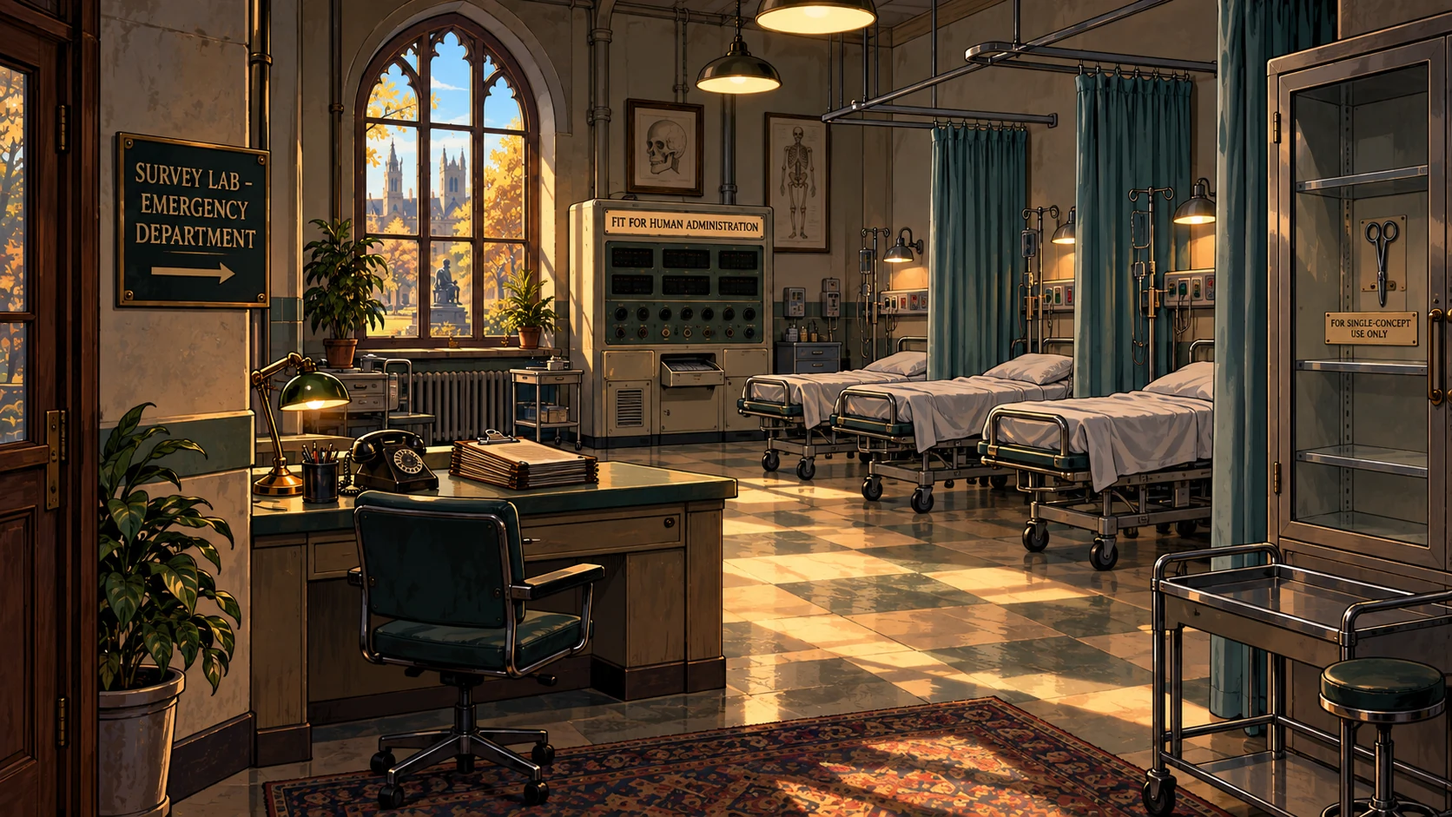
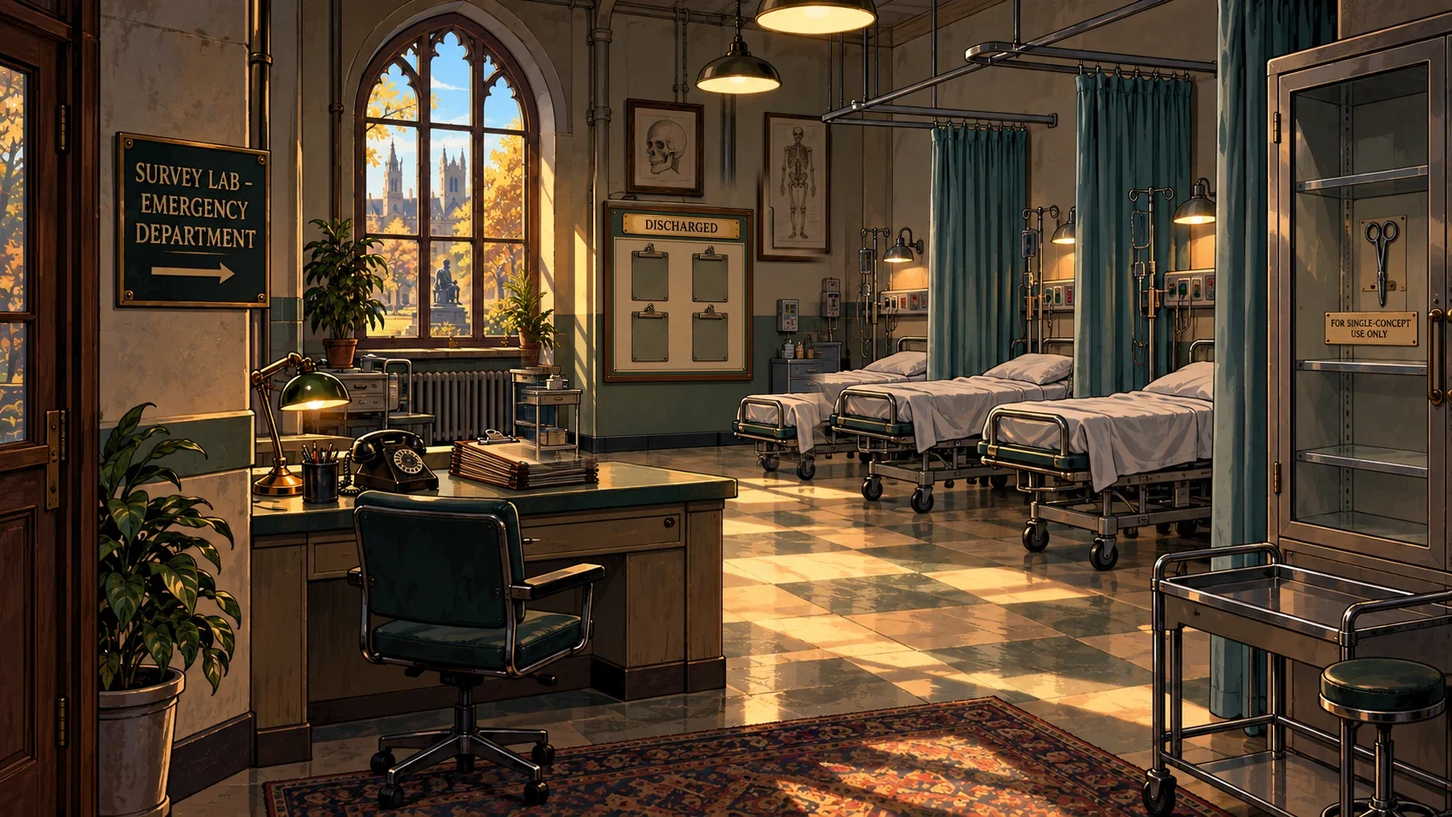
Survey Lab: the machine becomes a DISCHARGED board; healed patients are pinned there and four of them finish the room
ROADMAP 8zk.

Claude-Session: https://claude.ai/code/session_01NVbNvGwATBDeX3jSoy7jXs

Changed region(s): [[0.3421, 0.2157, 0.5909, 0.5855]]

diff --git a/web/the-secret-of-the-codebook.html b/web/the-secret-of-the-codebook.html
@@ -994,7 +994,7 @@
   // only happens once the player HAS the folder (Act I's question is carried in the hand).
   // None of these is ever selected and used on something; that is what makes them fileable.
   var FILED = { slip:'THEORY', readinglist:'THEORY', mechanismcard:'THEORY', altpaper:'THEORY',
-                h27form:'DATA', qsatisfaction:'DATA', qpolicy:'DATA', qlectures:'DATA', qsupport:'DATA',
+                h27form:'DATA', questionnaire:'DATA', qsatisfaction:'DATA', qpolicy:'DATA', qlectures:'DATA', qsupport:'DATA',
                 examrecords:'DATA', rateprint:'DATA', cleandata:'DATA',
                 resultprint:'RESULT', interpretation:'RESULT', contribution:'PAPER' };
   window.CODEBOOK_FILED = FILED;
@@ -1007,6 +1007,16 @@
                       if (GAME.filed.indexOf(id) === -1) GAME.filed.push(id); }
     });
   }
+  // The Survey Lab used to hand over four separate question cards; it now hands over one
+  // stapled questionnaire (ROADMAP 8zk). Old saves: swap the four for the one.
+  (function(){
+    var Q = ['qsatisfaction', 'qpolicy', 'qlectures', 'qsupport'], had = false;
+    ['inventory', 'filed'].forEach(function(k){
+      GAME[k] = GAME[k].filter(function(x){ if (Q.indexOf(x) !== -1){ had = true; return false; } return true; });
+    });
+    if (had && GAME.filed.indexOf('questionnaire') === -1 && GAME.inventory.indexOf('questionnaire') === -1)
+      (GAME.inventory.indexOf('folder') !== -1 ? GAME.filed : GAME.inventory).push('questionnaire');
+  })();
   function hasItem(id){ return GAME.inventory.indexOf(id) !== -1 || GAME.filed.indexOf(id) !== -1; }
   function addItem(id){
     if (!hasItem(id)){
@@ -1078,7 +1088,8 @@
     qsatisfaction: 'Q1 \u2014 Satisfaction (separated)',
     qpolicy:       'Q2 \u2014 Attendance Policy (neutral)',
     qlectures:     'Q3 \u2014 Lectures Missed (last 4 weeks)',
-    qsupport:      'Q4 \u2014 Support (5-point scale)'
+    qsupport:      'Q4 \u2014 Support (5-point scale)',
+    questionnaire: 'The Questionnaire (four healthy questions)'
   };
   var ITEM_ICONS = {
     question: 'icon-question.png', raffle: 'icon-raffledrum.webp',
@@ -1100,7 +1111,7 @@
     readinglist: 'icon-readinglist.png', altcard: 'icon-altcard.png',
     citationslip: 'icon-citationslip.png',
     qsatisfaction: 'icon-qcard-satisfaction.png', qpolicy: 'icon-qcard-policy.png',
-    qlectures: 'icon-qcard-lectures.png', qsupport: 'icon-qcard-support.png',
+    qlectures: 'icon-qcard-lectures.png', qsupport: 'icon-qcard-support.png', questionnaire: 'icon-qcard-support.png',
     rateprint: 'icon-rateprint.webp', cleandata: 'icon-cleandata.webp',
     resultprint: 'icon-resultprint.webp', interpretation: 'icon-interpretation.webp',
     contribution: 'icon-contribution.webp', ticket: 'icon-ticket.webp',
@@ -1121,6 +1132,7 @@
     qpolicy: 'A discharged patient chart. <i>&ldquo;How, if at all, has the new attendance policy affected your student life?&rdquo;</i> Nothing on it is trying to talk the respondent into anything.',
     qlectures: 'A discharged patient chart. <i>&ldquo;During the last four weeks, how many of your scheduled lectures did you not attend?&rdquo;</i> A torn calendar page is still stapled to it like a splint.',
     qsupport: 'A discharged patient chart. <i>&ldquo;I support the new attendance policy.&rdquo;</i> Five ordered boxes underneath, with a middle. Somebody has rubbed out a sixth.',
+    questionnaire: 'Four discharged patient charts, stapled together by a nurse who meant it: satisfaction with your studies, the attendance policy (neutrally), lectures missed in the last four weeks, and a five-point scale with a middle. Fit for human administration.',
     question: 'Twelve words. It took a morning, a whirlpool and a man in a rocking chair to get it down to twelve. Everything else in this building is downstream of it.',
     raffle: 'A drum of folded paper slips that does not care who you are. That is its entire virtue.',
     pen: 'Someone chewed the cap flat. It still writes, which in this department makes it a scientific instrument.',
@@ -7825,7 +7837,7 @@ var HOTSPOTS = [
   { id:'sign',      label:'A sign',                         noun:'the sign',              l:8,    t:16,   w:10.5, h:21.8 },
   { id:'window',    label:'A tall window',                   noun:'the window',            l:24.5, t:2,    w:12.3, h:39 },
   { id:'poster',    label:'A skeleton diagram',              noun:'the skeleton diagram',  l:52.6, t:13.8, w:4.5,  h:17 },
-  { id:'machine',   label:'The FIT FOR HUMAN ADMINISTRATION machine', noun:'the machine',  l:39.2, t:24.4, w:13.2, h:28 },
+  { id:'board',     label:'The DISCHARGED board',            noun:'the DISCHARGED board',  l:39.2, t:24.4, w:13.2, h:28 },
   { id:'cabinet',   label:'A glass supply cabinet',          noun:'the cabinet',           l:87.3, t:5.3,  w:12.7, h:62.7 },
   { id:'clipboard', label:'Patient on the triage desk',      noun:'the fourth patient',    l:30.8, t:52.6, w:10.5, h:7 },
   { id:'phone',     label:'A rotary phone',                  noun:'the phone',             l:23.9, t:52.6, w:6.3,  h:8 },
@@ -7863,8 +7875,12 @@ var OVERLAY = '<style>' +
   '@keyframes svbob{0%,100%{transform:translateY(0)}50%{transform:translateY(-6px)}}' +
   '.sv-box{display:inline-block;width:.9em;height:.9em;border:1.5px solid #2a1d10;vertical-align:-.1em;margin-right:.2em;}' +
   '@media (prefers-reduced-motion: reduce){.sv-q{animation:none}}' +
+  '.sv-pinned{position:absolute;width:2.7%;height:6.4%;overflow:hidden;box-sizing:border-box;background:#f6efdc;border:1.5px solid #3a2a18;border-radius:2px;box-shadow:0 3px 6px rgba(0,0,0,.5);padding:.35em .35em .3em;color:#2a1d10;font-family:Fraunces,Georgia,serif;font-size:clamp(3px,.3vw,6px);line-height:1.1;animation:svpin .5s ease-out;}' +
+  '.sv-pinned .hd{font-family:"JetBrains Mono",monospace;font-weight:700;letter-spacing:.06em;border-bottom:1px solid #b9a67f;margin-bottom:.25em;}' +
+  '.sv-pinned .ok{margin-top:.3em;font-family:"JetBrains Mono",monospace;font-weight:700;color:#fff;background:#2f7d3a;display:inline-block;padding:.05em .3em;border-radius:1px;}' +
+  '@keyframes svpin{from{transform:translateY(-30%) rotate(-6deg);opacity:0}to{transform:none;opacity:1}}' +
   '</style>' +
-  '<div id="sv_p1"></div><div id="sv_p2"></div><div id="sv_p3"></div><div id="sv_p4"></div>';
+  '<div id="sv_p1"></div><div id="sv_p2"></div><div id="sv_p3"></div><div id="sv_p4"></div><div id="sv_board"></div>';
 
 CODEBOOK_REGISTER({
   id: 'surveylab', act: 'Act III', title: 'Survey Lab', doneFlag: 'surveyDone',
@@ -7887,6 +7903,37 @@ CODEBOOK_REGISTER({
     // room used to keep a healed chart hanging in exactly the same place as the sick one,
     // which made four fixes look like no change at all.
     var DISCHARGED = '';
+    // The DISCHARGED board (ROADMAP 8zk) replaced the FIT FOR HUMAN ADMINISTRATION machine: a
+    // healed question is not carried off any more, the nurse pins its chart on the board, and
+    // four charts on the board is the whole puzzle. BOARD_SLOTS are the four clips in the art.
+    var BOARD_SLOTS = [[43.4, 30.2], [47.7, 30.2], [43.4, 38.3], [47.7, 38.3]];
+    function boardChart(i, text){
+      var p = BOARD_SLOTS[i];
+      return '<div class="sv-pinned" style="left:' + p[0] + '%;top:' + p[1] + '%;">' +
+        '<div class="hd">Q' + (i + 1) + '</div><div class="q">' + text + '</div><div class="ok">&#10004;</div></div>';
+    }
+    function renderBoard(){
+      var b = document.getElementById('sv_board'); if (!b) return;
+      b.innerHTML = (F('svFixDB') ? boardChart(0, '&ldquo;How satisfied are you with your studies?&rdquo;') : '') +
+        (F('svFixLead') ? boardChart(1, '&ldquo;How, if at all, has the attendance policy affected your student life?&rdquo;') : '') +
+        (F('svFixOften') ? boardChart(2, '&ldquo;In the last four weeks, how many lectures did you miss?&rdquo;') : '') +
+        (F('svFixScale') ? boardChart(3, '&ldquo;I support the attendance policy.&rdquo; &#9744;&#9744;&#9744;&#9744;&#9744;') : '');
+    }
+    // The nurse carries the healed chart to the board and pins it; the fourth one finishes it.
+    function discharge(flag){
+      ctx.setFlag(flag);
+      var nEl = document.getElementById('sv_spr_nurse');
+      if (nEl && window.NURSE_RIG) window.CODEBOOK_RIG_WALK(nEl, window.NURSE_RIG, [30, {wait: 1300}, 0]);
+      window.CODEBOOK_SFX('sfx-stapler', 0.24);
+      if (fixedCount() === 4 && !F('surveyDone')) setTimeout(finishWard, 2600);
+    }
+    function finishWard(){
+      if (F('surveyDone')) return;
+      ctx.complete();
+      api.give('questionnaire');
+      window.CODEBOOK_SFX('sfx-stamp', 0.32);
+      api.say('Nurse', 'She looks at the board: four charts, four green ticks. Then she runs off a copy of all four, squares the copies into a neat little stack and staples them together.<br><br>&ldquo;Discharged. All of them. That is a questionnaire now.&rdquo; She stamps your H-27 with alarming force. &ldquo;Obviously you can&rsquo;t give it to anyone.&rdquo; &mdash; &ldquo;Why?&rdquo; &mdash; &ldquo;Ethics.&rdquo;<div class="state-line win">&#9745; H-27: INSTRUMENT EXISTS</div>', 'win');
+    }
     var struck = false;      // patient 2 mid-surgery: the pen's strike-throughs are showing
     function renderPatients(){
       var p1 = document.getElementById('sv_p1'), p2 = document.getElementById('sv_p2'),
@@ -7908,45 +7955,9 @@ CODEBOOK_REGISTER({
     }
 
     var setFlag0 = ctx.setFlag;
-    ctx.setFlag = function(k){ setFlag0(k); renderPatients(); };
+    ctx.setFlag = function(k){ setFlag0(k); renderPatients(); renderBoard(); };
 
-    // The end of the ward (ROADMAP 8zj). There used to be one more step after the four
-    // patients: walk over to the FIT FOR HUMAN ADMINISTRATION machine, be told the instrument
-    // was incomplete, go back to the clipboard and write the missing question there. Nobody
-    // could see why. Now the nurse says it the moment the fourth patient is out, and the pen
-    // writes the question on the spot; the machine only lights up green when it is done.
-    function afterFix(){
-      if (fixedCount() === 4 && !F('svFixPractice')) setTimeout(fifthQuestion, 2200);
-    }
-    function fifthQuestion(){
-      if (F('surveyDone')) return;
-      api.clearChoices();
-      nurse('She looks at the four charts in your hand, then at your folder. &ldquo;Your hypothesis says ' + window.CODEBOOK_HYPOTHESIS() + '.&rdquo; &ldquo;Four healthy questions, and not one of them asks whether they practise <i>anywhere else</i>. Write me the fifth. You look like someone who carries a pen.&rdquo;');
-      api.choice('&ldquo;How many lectures did you attend this term?&rdquo;', function(){
-        nurse('&ldquo;We have that one. Asking it again will not make it truer.&rdquo;');
-      });
-      api.choice('&ldquo;Do you find the lectures useful?&rdquo;', function(){
-        nurse('&ldquo;That is an opinion. Your hypothesis is about what they <i>practise</i>, not how they feel.&rdquo;');
-      });
-      api.choice('&ldquo;In the last four weeks, how often did you practise exam-style problems using anything other than the lectures?&rdquo;', function(){
-        api.clearChoices();
-        ctx.setFlag('svFixPractice');
-        ctx.complete();
-        window.CODEBOOK_SFX('sfx-page', 0.3);
-        setTimeout(function(){ window.CODEBOOK_SFX('sfx-counter-ping', 0.3); }, 900);
-        greenMachine();
-        var nEl2 = document.getElementById('sv_spr_nurse');
-        if (nEl2 && window.NURSE_RIG) window.CODEBOOK_RIG_WALK(nEl2, window.NURSE_RIG, [21, {wait: 2200}, 0]); // marches over to stamp the H-27
-        api.say('Nurse', 'You write it with the chewed pen along the bottom of the clipboard. She reads it twice and initials the corner. Behind her, every lamp on the <b>FIT FOR HUMAN ADMINISTRATION</b> console flashes green.<br><br>&ldquo;Now, if the gap is smaller among the ones already practising, that means something.&rdquo; She stamps your H-27 with alarming force. &ldquo;Obviously you can&rsquo;t give it to anyone.&rdquo; &mdash; &ldquo;Why?&rdquo; &mdash; &ldquo;Ethics.&rdquo;<div class="state-line win">&#9745; H-27: INSTRUMENT EXISTS</div>', 'win');
-      });
-    }
-    function greenMachine(){
-      var wrap = document.getElementById('sv_sceneWrap');
-      if (!wrap || document.getElementById('sv_green')) return;
-      var g = document.createElement('div'); g.id = 'sv_green'; g.className = 'sv-green';
-      g.style.cssText = 'left:39.2%;top:24.4%;width:13.2%;height:28%;';
-      wrap.appendChild(g);
-    }
+
     var api = CODEBOOK_ADV_ROOM(ctx, {
       p: 'sv', hotspots: HOTSPOTS,
       intro: F('surveyDone')
@@ -7966,7 +7977,7 @@ CODEBOOK_REGISTER({
           if (item){ nurse('&ldquo;I don&rsquo;t need that. The <i>patients</i> might.&rdquo;'); return; }
           if (verb === 'talkto'){
             if (F('surveyDone')){ nurse('&ldquo;Your instrument is cleared. Go and bother some real humans with it. Ethically.&rdquo;'); return; }
-            if (fixedCount() === 4){ fifthQuestion(); return; }
+            if (fixedCount() === 4){ nurse('&ldquo;All four on the board. Your instrument is done.&rdquo;'); return; }
             if (!F('svFixDB')){ nurse('&ldquo;Start with the first gurney. Talk to it &mdash; well, talk to <i>me</i> about it &mdash; and I&rsquo;ll tell you what&rsquo;s holding it together.&rdquo;'); return; }
             if (!F('svFixLead')){ nurse('&ldquo;The one on the second gurney is leaning so hard it&rsquo;s practically answering itself. Some patients get better when you cross things <i>out</i>.&rdquo;'); return; }
             if (!F('svFixOften')){ nurse('&ldquo;Third gurney. &lsquo;Often.&rsquo; Four thousand days and nobody knows what it means. It needs a window of time. Ask me about it if you&rsquo;re stuck.&rdquo;'); return; }
@@ -7985,9 +7996,9 @@ CODEBOOK_REGISTER({
             nurse('<i>A question lies on the gurney, physically taped together down the middle: &ldquo;How satisfied are you with your studies AND your accommodation?&rdquo; Its chart carries two diagnoses in two different handwritings, each blaming the other half.</i><br><br>&ldquo;Classic double-barrel. Two constructs, one question mark. Somebody who loves the course and lives in a mouldy cellar has no honest box to tick.&rdquo; She nods at the glass cabinet. &ldquo;The scissors are in there. Single-concept use only &mdash; which, now you&rsquo;ve diagnosed it, this is.&rdquo;'); return;
           }
           if (item === 'scissors'){
-            ctx.setFlag('svFixDB'); api.take('scissors'); api.give('qsatisfaction');
+            api.take('scissors'); discharge('svFixDB');
             window.CODEBOOK_SFX('sfx-scissors', 0.28);
-            api.say('You', 'You cut carefully along the tape. The question separates cleanly into <i>&ldquo;How satisfied are you with your studies?&rdquo;</i> and <i>&ldquo;How satisfied are you with your accommodation?&rdquo;</i> The second half is wheeled away. &ldquo;We&rsquo;ll open a separate case,&rdquo; says the nurse, and takes the scissors back to the cabinet.<br><br>She unclips the chart and hands it to you. &ldquo;Discharged. You carry it &mdash; it is your instrument, not my ward.&rdquo;<div class="state-line win">+ Q1 discharged (' + fixedCount() + '/4)</div>'); api.sprite('mountEmpty', false); afterFix(); return;
+            api.say('You', 'You cut carefully along the tape. The question separates cleanly into <i>&ldquo;How satisfied are you with your studies?&rdquo;</i> and <i>&ldquo;How satisfied are you with your accommodation?&rdquo;</i> The second half is wheeled away. &ldquo;We&rsquo;ll open a separate case,&rdquo; says the nurse, and takes the scissors back to the cabinet.<br><br>She unclips the chart and pins it on the DISCHARGED board.<div class="state-line win">+ Q1 discharged (' + fixedCount() + '/4)</div>'); api.sprite('mountEmpty', false); return;
           }
           if (item){ api.say('You', 'The patient does not respond to that treatment.'); return; }
           if (verb === 'use'){ api.say('You', 'You try to peel the tape off by hand. It is surgical-grade institutional tape. You&rsquo;ll need something sharper.'); return; }
@@ -8002,7 +8013,7 @@ CODEBOOK_REGISTER({
             struck = true; renderPatients();
             window.CODEBOOK_SFX('sfx-page', 0.26);
             api.say('You', 'You uncap the chewed pen and strike through <i>&ldquo;Don&rsquo;t you agree that&rdquo;</i> and <i>&ldquo;excellent&rdquo;</i>, twice each, hard. What is left sits up and says: <i>&ldquo;How, if at all, has the new attendance policy affected your student life?&rdquo;</i> The nurse nods. &ldquo;Neutral. Boring. Healthy.&rdquo;<div class="state-line win">+ Q2 discharged (' + (fixedCount() + 1) + '/4)</div>');
-            setTimeout(function(){ struck = false; ctx.setFlag('svFixLead'); api.give('qpolicy'); afterFix(); }, 1600);
+            setTimeout(function(){ struck = false; discharge('svFixLead'); }, 1600);
             return;
           }
           if (verb === 'use' && !item){ api.say('You', 'You try to pry the words off with your fingers. They are printed on. You need something to cross them out with.'); return; }
@@ -8014,35 +8025,24 @@ CODEBOOK_REGISTER({
           if (F('svFixOften')){ if (verb === 'lookat'){ api.say('You', '<i>&ldquo;During the last four weeks, how many of your scheduled lectures did you not attend?&rdquo;</i> A torn calendar page is stapled to it like a splint.'); return; } return false; }
           if (verb === 'lookat' || verb === 'talkto'){ nurse('<i>&ldquo;How often do you skip lectures?&rdquo; Question marks hover over it. Its chart is covered in circled dates and crossed-out guesses. Nobody has ever agreed what &ldquo;often&rdquo; means. A note clipped to the chart reads: DAY 4,016: STILL OPERATIONALISING &lsquo;OFTEN&rsquo;.</i><br><br>&ldquo;It needs a reference period &mdash; a concrete window of time. We don&rsquo;t keep calendars in here: temporal information compromises conceptual purity. The Ethics Tribunal has an enormous one. They use it to count how long applications have been pending.&rdquo;'); return; }
           if (item === 'calendarpage'){
-            ctx.setFlag('svFixOften'); api.take('calendarpage'); api.give('qlectures');
-            api.say('You', 'You staple the torn page to the question. It sits up and says, clearly: <i>&ldquo;During the last four weeks, how many of your scheduled lectures did you not attend?&rdquo;</i> The question marks above it pop, one by one. The nurse allows herself a single, approving nod, unclips the chart and hands it over.<div class="state-line win">+ Q3 discharged (' + fixedCount() + '/4)</div>'); afterFix(); return;
+            api.take('calendarpage'); discharge('svFixOften');
+            api.say('You', 'You staple the torn page to the question. It sits up and says, clearly: <i>&ldquo;During the last four weeks, how many of your scheduled lectures did you not attend?&rdquo;</i> The question marks above it pop, one by one. The nurse allows herself a single, approving nod and pins the chart on the DISCHARGED board.<div class="state-line win">+ Q3 discharged (' + fixedCount() + '/4)</div>'); return;
           }
           if (item){ api.say('You', 'The nurse shakes her head. What this patient needs is a <i>time window</i>.'); return; }
           return false;
         }
 
         if (id === 'clipboard'){
-          // Once the scale is healed the clipboard becomes the place the missing item gets
-          // written -- with the Act I chewed pen, because of course it does.
+          // Healed: the chart is on the DISCHARGED board, and the clipboard is just a clipboard.
           if (F('svFixScale')){
-            if (F('svFixPractice')){
-              if (verb === 'lookat'){ api.say('You', 'A five-point scale, and underneath it, in your own handwriting: <i>&ldquo;In the last four weeks, how often did you practise exam-style problems using anything other than the lectures &mdash; the textbook, tutorials, or past papers?&rdquo;</i> The nurse has initialled it.'); return; }
-              return false;
-            }
-            if (verb === 'lookat'){ api.say('You', 'The clipboard now carries a proper five-point scale, traced neatly from your die. Someone has crossed out a sixth option in the margin: SLIGHTLY EXTREMELY AGREE. There is a blank line at the bottom of the card, and quite a lot of room under it.'); return; }
-            if (verb === 'talkto'){ nurse('&ldquo;Blank space is not an oversight, it is an <i>opportunity</i>. What does your hypothesis need that we have not asked?&rdquo;'); return; }
-            if (item === 'pen' || (verb === 'use' && !item)){
-              if (fixedCount() < 4){ nurse('&ldquo;Heal the others first. Then we talk about what is missing.&rdquo;'); return; }
-              fifthQuestion(); return;
-            }
-            if (item){ api.say('You', 'The clipboard has no use for that.'); return; }
+            if (verb === 'lookat'){ api.say('You', 'An empty clipboard. Its patient is on the DISCHARGED board now, with a proper five-point scale.'); return; }
             return false;
           }
           if (verb === 'lookat'){ api.say('You', 'A clipboard on the triage desk: <i>&ldquo;Do you support the new attendance policy? &#9744; YES &#9744; NO&rdquo;</i>. Its triage note: <b>SEVERE LOSS OF RESPONSE CATEGORIES.</b>'); return; }
           if (verb === 'talkto'){ nurse('&ldquo;The patient has lost several degrees of opinion. It needs a proper scale &mdash; ordered, balanced, with a middle. You look like someone who carries odd things around.&rdquo;'); return; }
           if (item === 'likertdie'){
-            ctx.setFlag('svFixScale'); api.give('qsupport');
-            api.say('You', 'You don&rsquo;t roll it &mdash; the nurse would only accuse you of answering on the respondent&rsquo;s behalf. Instead you trace its faces onto the card: STRONGLY DISAGREE, DISAGREE, NEITHER, AGREE, STRONGLY AGREE. In the margin, someone has already pencilled a sixth option: SLIGHTLY EXTREMELY AGREE. More categories, more precision, apparently. You rub it out firmly. The nurse unclips it and hands it to you.<div class="state-line win">+ Q4 discharged (' + fixedCount() + '/4)</div>'); afterFix(); return;
+            discharge('svFixScale');
+            api.say('You', 'You don&rsquo;t roll it &mdash; the nurse would only accuse you of answering on the respondent&rsquo;s behalf. Instead you trace its faces onto the card: STRONGLY DISAGREE, DISAGREE, NEITHER, AGREE, STRONGLY AGREE. In the margin, someone has already pencilled a sixth option: SLIGHTLY EXTREMELY AGREE. More categories, more precision, apparently. You rub it out firmly. The nurse pins it on the DISCHARGED board.<div class="state-line win">+ Q4 discharged (' + fixedCount() + '/4)</div>'); return;
           }
           if (item){ api.say('You', 'Not what the patient needs. It needs a <i>scale</i>.'); return; }
           if (verb === 'use'){ api.say('You', 'You draw a third box labelled MAYBE. The nurse sighs. &ldquo;That&rsquo;s not a scale. That&rsquo;s a shrug.&rdquo;'); return; }
@@ -8081,23 +8081,20 @@ CODEBOOK_REGISTER({
           return false;
         }
 
-        if (id === 'machine'){
+        if (id === 'board'){
           if (verb === 'lookat'){
             api.say('You', F('surveyDone')
-              ? 'Every lamp on the console glows a contented green. <b>SURVEY INSTRUMENT &mdash; MEDICALLY CLEARED.</b>'
-              : 'A cabinet-sized console labelled <b>FIT FOR HUMAN ADMINISTRATION</b>. Its indicator panel is dark. Patients stable: ' + fixedCount() + ' of 4' + (fixedCount() === 4 && !F('svFixPractice') ? ', and one line on the console still amber: <b>DOES THE INSTRUMENT MEASURE THE HYPOTHESIS?</b>' : '') + '.'); return;
+              ? 'The DISCHARGED board, full: four healed charts, four green ticks. Their stapled copies are your questionnaire.'
+              : 'A board labelled <b>DISCHARGED</b>, with four chart clips. ' + fixedCount() + ' of 4 taken. Every patient that is fit for human administration ends up here.'); return;
           }
-          if (verb === 'use' || verb === 'talkto'){
-            if (F('surveyDone')){ api.say('You', 'The machine hums at you. It has already cleared your instrument, and it would like some peace now.'); return; }
-            if (fixedCount() < 4){
-              var left = [];
-              if (!F('svFixDB')) left.push('the double-barrel on the first gurney');
-              if (!F('svFixLead')) left.push('the leaning question on the second');
-              if (!F('svFixOften')) left.push('the vague one on the third');
-              if (!F('svFixScale')) left.push('the clipboard with no scale');
-              api.say('You', 'The console stays dark. A tinny voice: <i>&ldquo;UNSTABLE PATIENTS REMAIN.&rdquo;</i> Still unwell: ' + left.join(', ') + '.'); return;
-            }
-            fifthQuestion(); return;
+          if (verb === 'use' || verb === 'talkto' || item){
+            if (F('surveyDone')){ api.say('You', 'All four clips are taken. Your questionnaire is in the folder.'); return; }
+            var left = [];
+            if (!F('svFixDB')) left.push('the double-barrel on the first gurney');
+            if (!F('svFixLead')) left.push('the leaning question on the second');
+            if (!F('svFixOften')) left.push('the vague one on the third');
+            if (!F('svFixScale')) left.push('the clipboard with no scale');
+            nurse('&ldquo;Only healed patients go on that board.&rdquo; Still unwell: ' + left.join(', ') + '.'); return;
           }
           return false;
         }
@@ -8110,7 +8107,9 @@ CODEBOOK_REGISTER({
     });
     api.sprite('mountEmpty', F('svScissorsOut') && !F('svFixDB'));   // back on the mount after the cut
     renderPatients();
-    if (F('surveyDone')) greenMachine();
+    renderBoard();
+    // A save from the machine days: four healed, never cleared. The board finishes it now.
+    if (fixedCount() === 4 && !F('surveyDone')) setTimeout(finishWard, 1200);
     var nurseEl = document.getElementById('sv_spr_nurse');
     if (nurseEl && window.NURSE_RIG) window.CODEBOOK_IDLE_PACE(nurseEl, window.NURSE_RIG, [[9, {wait: 900}, 0]], 16000, 30000);
   }
@@ -9570,7 +9569,7 @@ window.CODEBOOK_VO = {
                  'magnifyingglass','bingocard','raffle','blackink','worksheets','chalk'];
     var two   = one.concat(['slip','readinglist','altcard','enrolreg','stepladder','blankcard',
                             'nobelproc','accentcard','altpaper','grandphrase']);
-    var three = two.concat(['rateprint','pseudolist','examrecords','redacted']);
+    var three = two.concat(['rateprint','pseudolist','examrecords','redacted','questionnaire']);
     var four  = three.concat(['resultprint','cleandata','ticket']);
     var five  = four.concat(['interpretation']);
     var f1 = { whirlpoolDone:true, lectureDone:true, pondDone:true, philosopherConvinced:true,

diff --git a/tools/test/test-surveylab.js b/tools/test/test-surveylab.js
@@ -26,23 +26,13 @@ const U = 'http://localhost:8934/the-secret-of-the-codebook.html?cb=';
     const verb = v => [...document.querySelectorAll('#sv_verbGrid button')].find(b => new RegExp(v,'i').test(b.textContent)).click();
     const spot = id => document.querySelector('[data-id="' + id + '"]').click();
 
-    // all four patients stable -> the nurse asks for the fifth question, naming the hypothesis
-    verb('talk'); spot('nurse'); await wait(600);
-    out.machineRefuses = /Write me the fifth/.test(line());
-    out.namesHypothesis = /practice elsewhere|getting that practice|practise/.test(line());
-    out.boxBefore = !!JSON.parse(localStorage.getItem('codebook_save_v1')).flags.surveyDone;
-    const choices = [...document.querySelectorAll('#sv_choices button')].map(b => b.textContent.slice(0,40));
-    out.choices = choices.length;
-    // wrong one first
-    document.querySelectorAll('#sv_choices button')[0]?.click(); await wait(400);
-    out.wrongRejected = !JSON.parse(localStorage.getItem('codebook_save_v1')).flags.svFixPractice;
-    verb('talk'); spot('nurse'); await wait(400);
-    const btns = [...document.querySelectorAll('#sv_choices button')];
-    btns[btns.length-1]?.click(); await wait(600);
-    out.practiceWritten = !!JSON.parse(localStorage.getItem('codebook_save_v1')).flags.svFixPractice;
-
-    out.boxAfter = !!JSON.parse(localStorage.getItem('codebook_save_v1')).flags.surveyDone;
-    out.machineGreen = !!document.getElementById('sv_green');
+    // ROADMAP 8zk: four healed patients on the DISCHARGED board IS the room. A save with all
+    // four fixed (from before the board) is finished on entry.
+    await wait(1800);
+    const g = JSON.parse(localStorage.getItem('codebook_save_v1'));
+    out.boxAfter = !!g.flags.surveyDone;
+    out.gotQuestionnaire = (g.filed || []).concat(g.inventory).indexOf('questionnaire') !== -1;
+    out.pinned = document.querySelectorAll('#sv_board .sv-pinned').length;
     return out;
   })()`);
 
@@ -65,7 +55,7 @@ const U = 'http://localhost:8934/the-secret-of-the-codebook.html?cb=';
       .filter(k => (document.getElementById(k) || {}).innerHTML);
 
     out.chartsAtStart = charts().length;                 // four patients hanging
-    out.cardsAtStart  = inv().filter(i => /^q(satisfaction|policy|lectures|support)$/.test(i)).length;
+    out.cardsAtStart  = document.querySelectorAll('#sv_board .sv-pinned').length;
 
     // patient 2: the pen crosses the leading words out, visibly, then it is discharged
     verb('look'); spot('gurney2'); await wait(400);
@@ -73,7 +63,7 @@ const U = 'http://localhost:8934/the-secret-of-the-codebook.html?cb=';
     spot('gurney2'); await wait(300);
     out.struckVisible = !!document.querySelector('#sv_p2 .sv-strike');
     await wait(2000);
-    out.gotPolicyCard = inv().indexOf('qpolicy') >= 0;
+    out.gotPolicyCard = document.querySelectorAll('#sv_board .sv-pinned').length === 1;   // pinned, not carried
     out.chartGone     = charts().indexOf('sv_p2') < 0;
 
     // patient 3 takes the calendar page from the Ethics Tribunal.
@@ -84,7 +74,7 @@ const U = 'http://localhost:8934/the-secret-of-the-codebook.html?cb=';
     verb('use');
     document.querySelector('#sv_sideInv .side-inv-slot[data-item="calendarpage"]').click();
     spot('gurney3'); await wait(500);
-    out.gotLecturesCard = inv().indexOf('qlectures') >= 0;
+    await wait(300); out.gotLecturesCard = document.querySelectorAll('#sv_board .sv-pinned').length === 2;
 
     // patient 4 is the clipboard, and it must announce itself as a patient
     out.clipboardLabel = (document.querySelector('[data-id="clipboard"]') || {}).dataset
@@ -92,16 +82,15 @@ const U = 'http://localhost:8934/the-secret-of-the-codebook.html?cb=';
     verb('use');
     document.querySelector('#sv_sideInv .side-inv-slot[data-item="likertdie"]').click();
     spot('clipboard'); await wait(500);
-    out.gotSupportCard = inv().indexOf('qsupport') >= 0;
+    await wait(300); out.gotSupportCard = document.querySelectorAll('#sv_board .sv-pinned').length === 3;
     out.chartsLeft = charts().length;
     return out;
   })()`);
   console.log(JSON.stringify({ ...r, carry }, null, 1), '\nerrors:', p.errors.length ? p.errors : 'none');
   await p.evaluate(`localStorage.removeItem('codebook_save_v1')`);
-  const ok = r.machineRefuses && !r.boxBefore && r.choices === 3 && r.wrongRejected
-          && r.practiceWritten && r.boxAfter && r.machineGreen && carry.struckVisible
+  const ok = r.boxAfter && r.gotQuestionnaire && r.pinned === 4 && carry.struckVisible
           && carry.chartsAtStart === 4 && carry.cardsAtStart === 0
-          && carry.gotPolicyCard && carry.chartGone          // healed -> carried, bed empty
+          && carry.gotPolicyCard && carry.chartGone          // healed -> pinned on the board, bed empty
           && carry.gotLecturesCard && carry.gotSupportCard
           && /[Pp]atient/.test(carry.clipboardLabel)          // the clipboard IS patient 4
           && carry.chartsLeft === 1                           // only the double-barrel left

diff --git a/tools/test/test-itemlook.js b/tools/test/test-itemlook.js
@@ -65,7 +65,7 @@ const U = 'http://localhost:8934/the-secret-of-the-codebook.html?cb=';
   // The count is a tripwire, not a fact about the world: bump it deliberately when items
   // are added, so a new item cannot slip in without a description. 48 -> 52 when the Survey
   // Lab's four question cards became things you carry.
-  const ok = r && r.count === 52 && r.fellBack.length === 0 && r.namesRoom.length === 0 &&
+  const ok = r && r.count === 53 && r.fellBack.length === 0 && r.namesRoom.length === 0 &&
              r.tellsVerb.length === 0 && r.advWorks && r.armed && r.actIWorks &&
              r.folderAfter !== r.folderBefore && /Data/.test(r.folderAfter) &&
              r.slipAfter !== r.slipBefore && /wax/i.test(r.slipAfter) && !p.errors.length;

diff --git a/ROADMAP.md b/ROADMAP.md
@@ -1070,6 +1070,23 @@ point — without dating the game.
 
 ---
 
+## 8zk. Survey Lab, radically simpler: the DISCHARGED board — 2026-09-25 (user)
+
+> What if the Survey Lab has a "healed patients" board, and once we correct the questions the
+> nurse moves them there — and that is the whole puzzle; then we get what we need. Get rid of
+> the machine. (And generally: some puzzles seem overly complex or not clear.)
+
+- The FIT FOR HUMAN ADMINISTRATION machine is gone: repainted into a **DISCHARGED** board with
+  four chart clips (ChatGPT region edit merged into `surveylab-bg.webp`, both posters kept from
+  the original; original in `art/patches`). Hotspot `board`.
+- **Each healed patient** is walked over by the nurse and pinned on the board (`discharge()`),
+  visibly; nothing is carried. **Four on the board is the room**: she staples copies into one
+  item, **The Questionnaire** (filed under DATA), and stamps H-27. The fifth (practice) question
+  and the machine step are gone; nothing later depended on them.
+- Old saves: the four Q-cards become the questionnaire; a save with all four healed but not
+  cleared finishes on entry. `test-surveylab` rewritten around the board; `test-itemlook`
+  counts 53 item types.
+
 ## 8zj. Survey Lab, simplified: the pen does the work, the nurse asks for the fifth question — 2026-09-25 (user)
 
 > "Use" is weird to solve the second question — what if we use the pen to delete parts of it?
